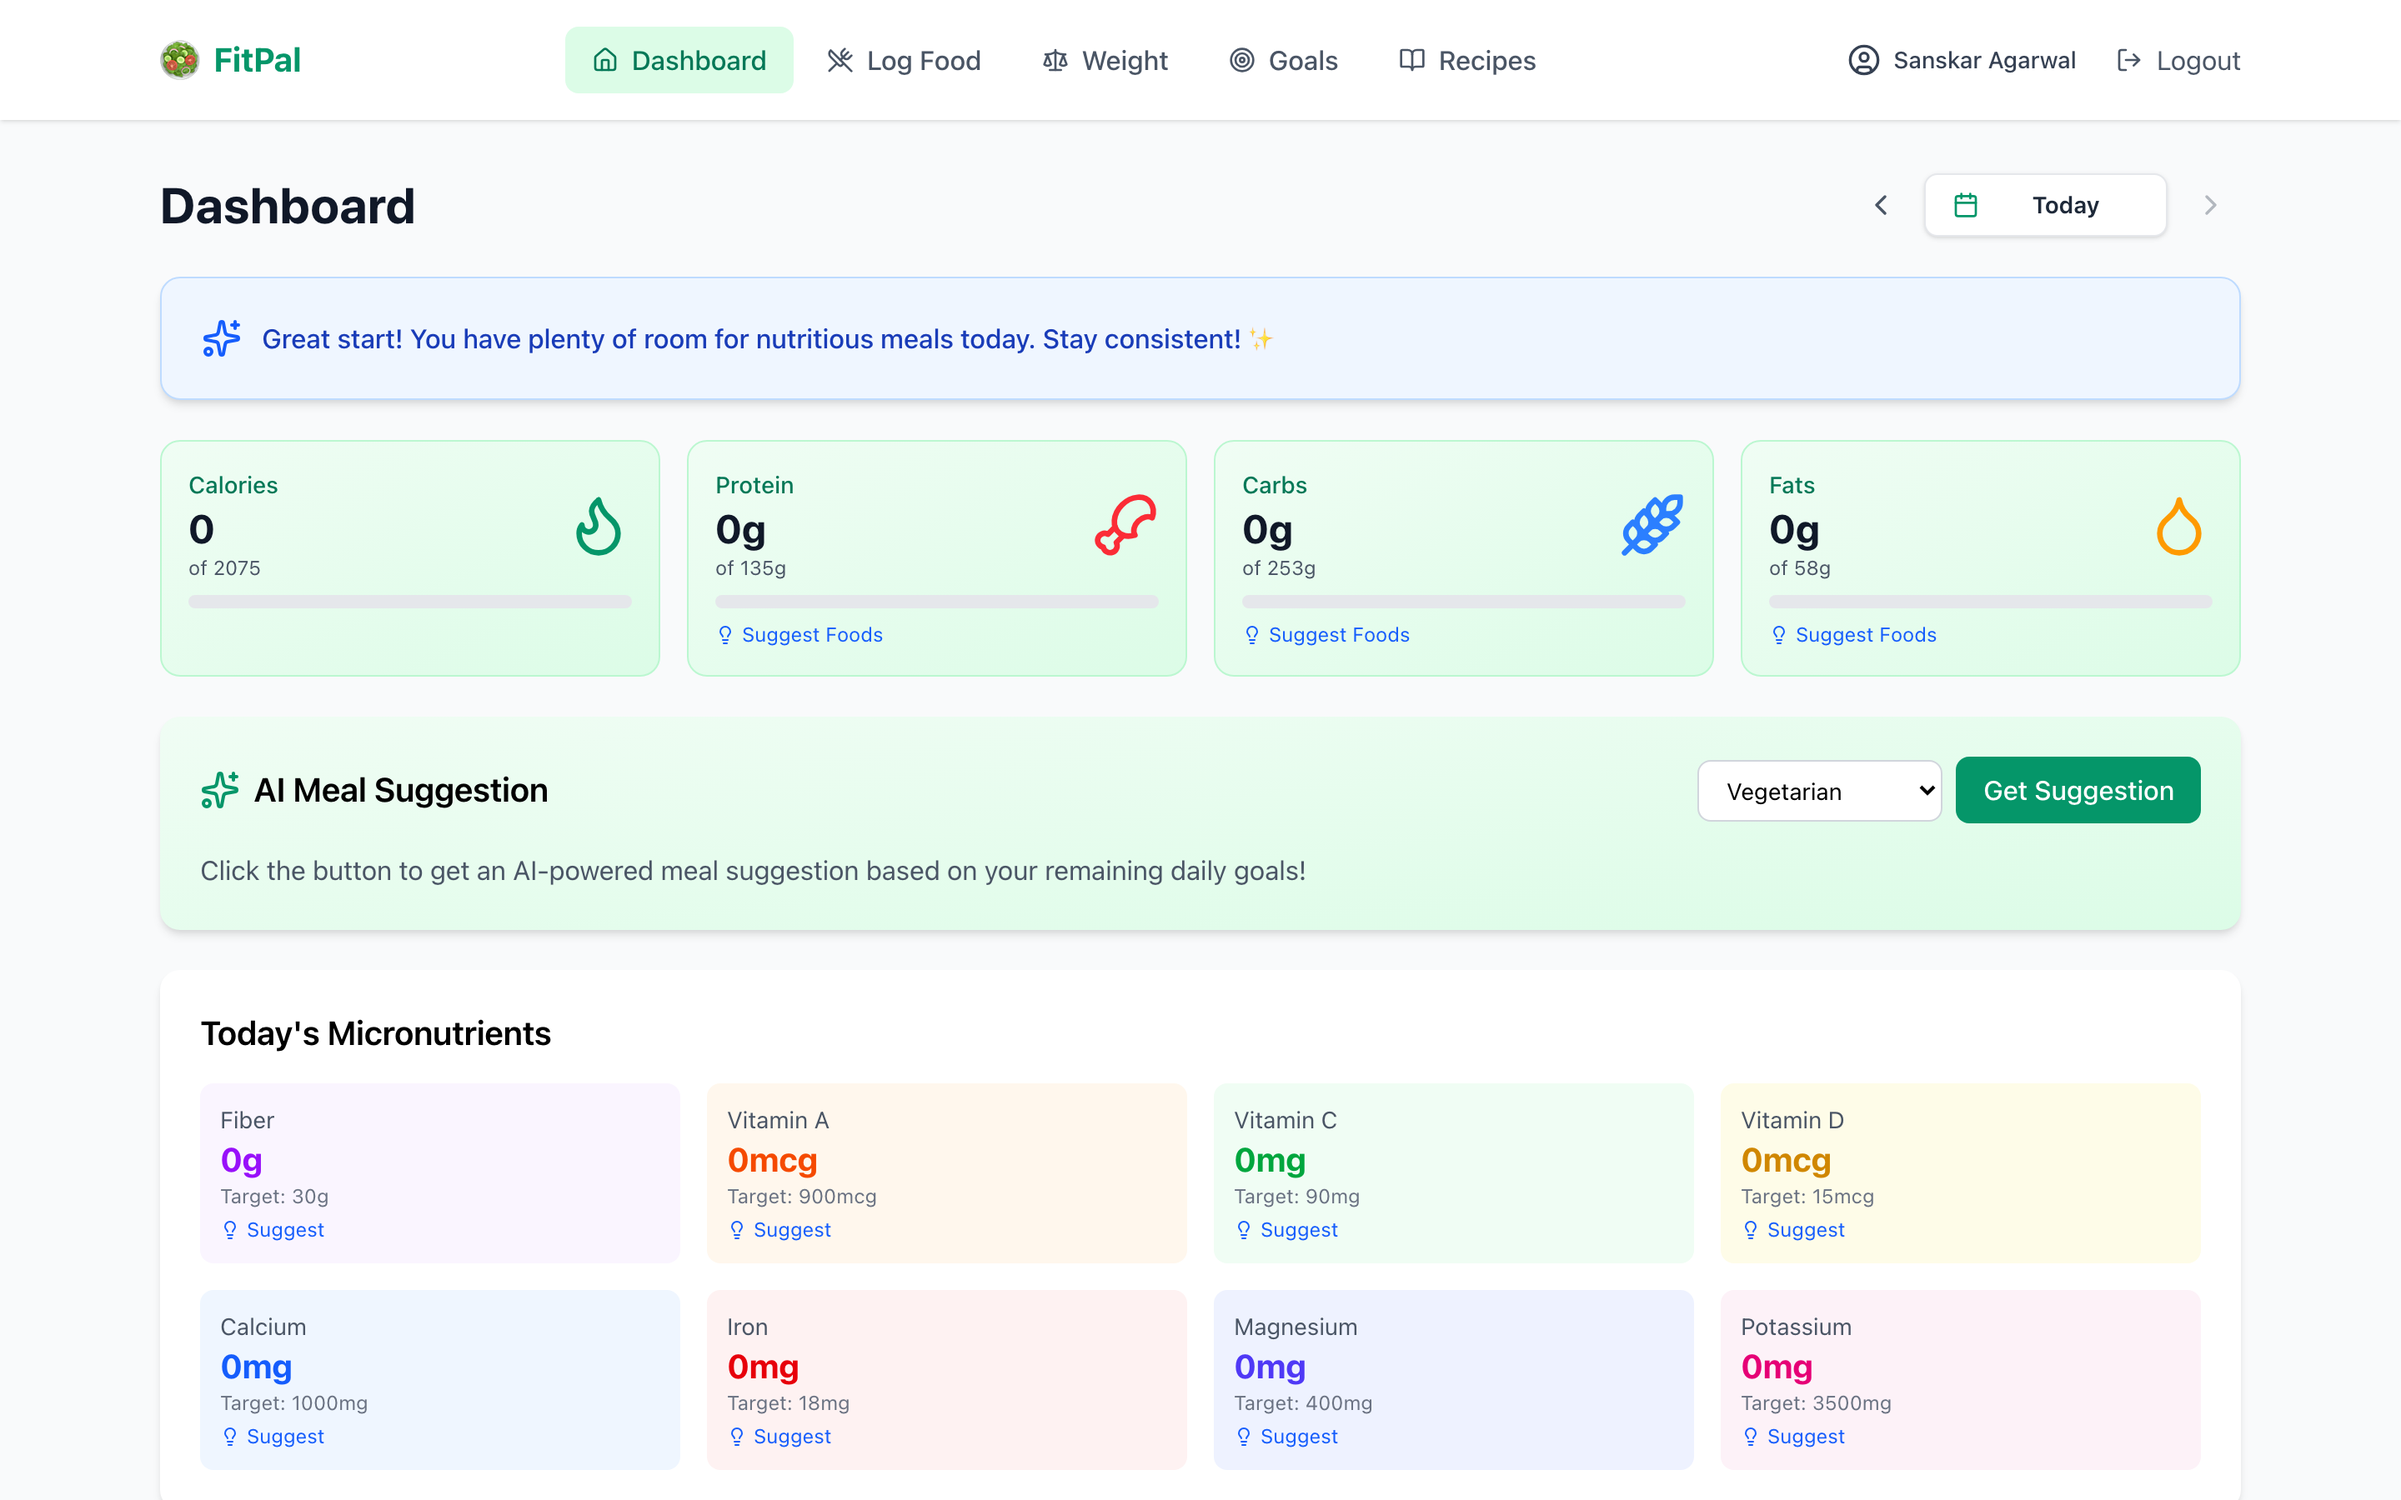
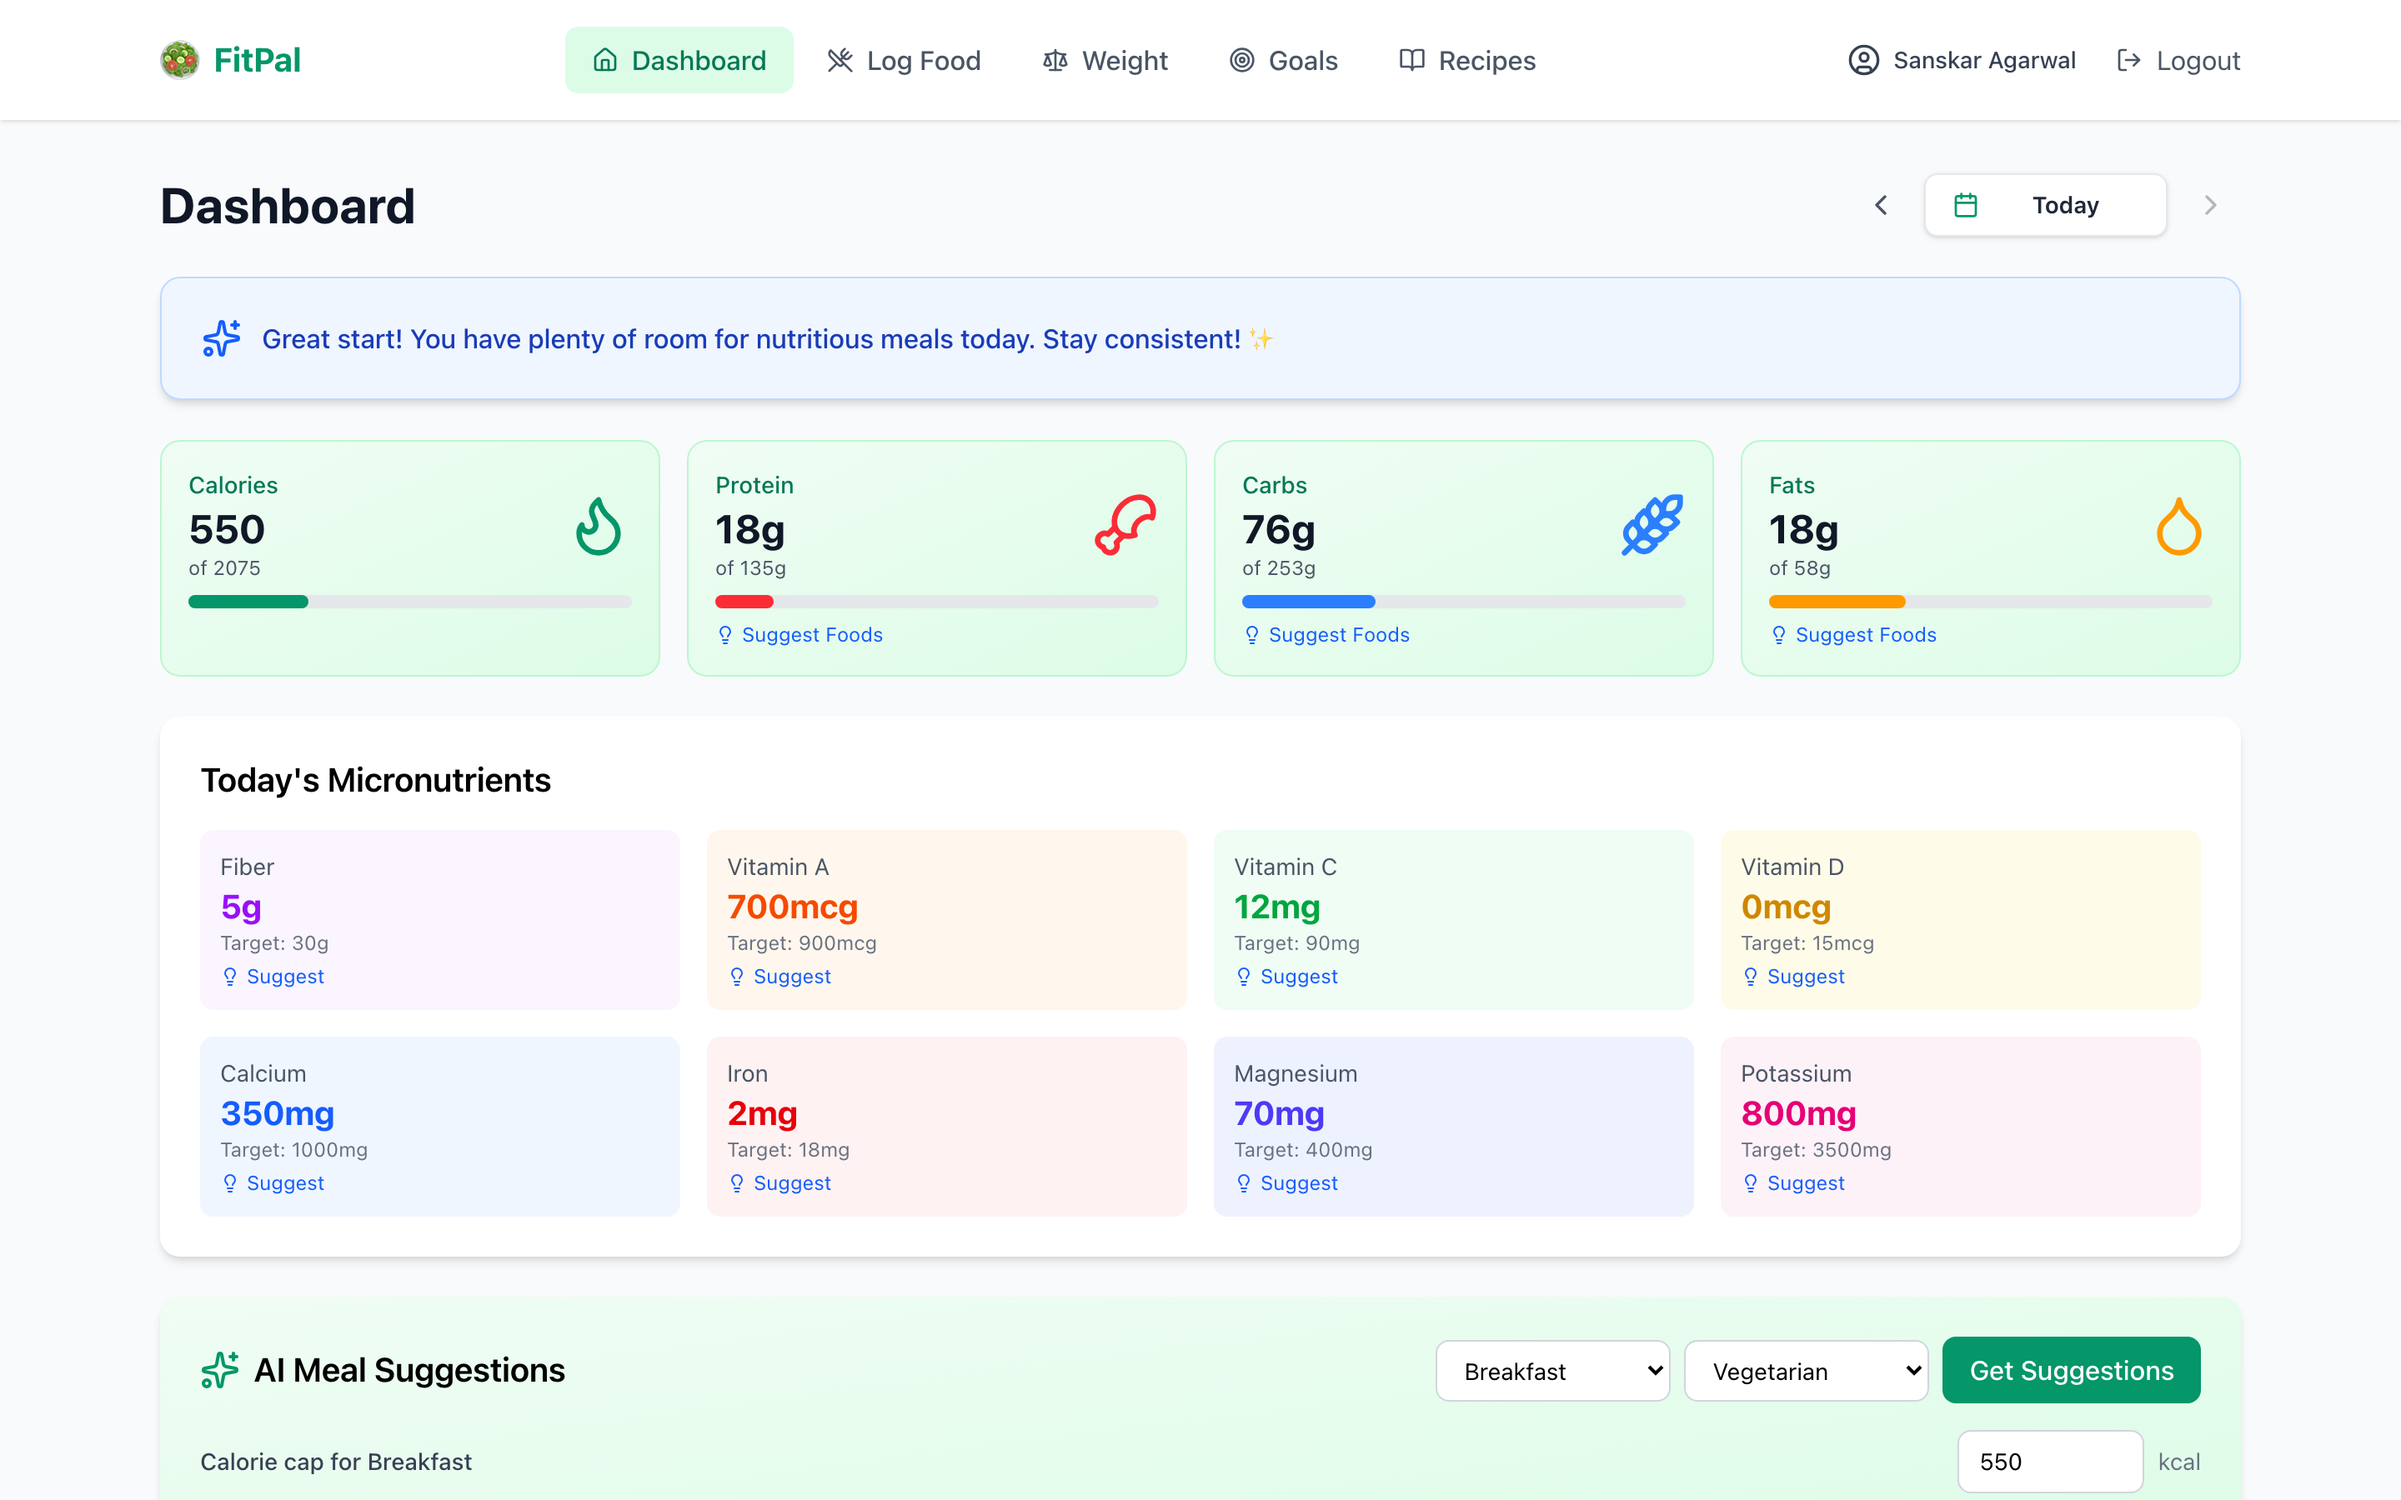
add changelog and create version 0.1.0

diff --git a/src/components/foodLogger/useMealChat.ts b/src/components/foodLogger/useMealChat.ts
@@ -32,6 +32,7 @@ export const useMealChat = ({ user, selectedDate, todayMeals, loadTodayMeals, se
   const [chatMessages, setChatMessages] = useState<ChatMessage[]>([]);
   const [chatInput, setChatInput] = useState('');
   const [chatLoading, setChatLoading] = useState(false);
+  const [chatPreparing, setChatPreparing] = useState(false);
   const [proposedMeal, setProposedMeal] = useState<MealChatResult | null>(null);
 
   const buildMealFromParsed = (result: MealChatResult, existing?: MealEntry): MealEntry | null => {
@@ -84,6 +85,7 @@ export const useMealChat = ({ user, selectedDate, todayMeals, loadTodayMeals, se
     setChatMessages(newHistory);
     setChatInput('');
     setChatLoading(true);
+    setChatPreparing(false);
     setProposedMeal(null);
 
     try {
@@ -106,7 +108,9 @@ export const useMealChat = ({ user, selectedDate, todayMeals, loadTodayMeals, se
       const updateAssistant = (text: string) =>
         setChatMessages([...newHistory, { role: 'assistant', content: text }]);
 
-      const result = await chatLogMealStream(newHistory, loggedMeals, updateAssistant);
+      const result = await chatLogMealStream(newHistory, loggedMeals, updateAssistant, () =>
+        setChatPreparing(true)
+      );
       // Ensure the final message is shown even if no stream chunks arrived.
       setChatMessages([...newHistory, { role: 'assistant', content: result.message }]);
       const isActionable =
@@ -123,6 +127,7 @@ export const useMealChat = ({ user, selectedDate, todayMeals, loadTodayMeals, se
       ]);
     } finally {
       setChatLoading(false);
+      setChatPreparing(false);
     }
   };
 
@@ -160,6 +165,7 @@ export const useMealChat = ({ user, selectedDate, todayMeals, loadTodayMeals, se
   const resetChat = () => {
     setChatMessages([]);
     setChatInput('');
+    setChatPreparing(false);
     setProposedMeal(null);
   };
 
@@ -182,6 +188,7 @@ export const useMealChat = ({ user, selectedDate, todayMeals, loadTodayMeals, se
     chatInput,
     setChatInput,
     chatLoading,
+    chatPreparing,
     proposedMeal,
     sendChat,
     confirmChatMeal,

diff --git a/src/components/foodLogger/MealChat.tsx b/src/components/foodLogger/MealChat.tsx
@@ -11,6 +11,7 @@ interface MealChatProps {
   chatInput: string;
   setChatInput: (value: string) => void;
   chatLoading: boolean;
+  chatPreparing: boolean;
   proposedMeal: MealChatResult | null;
   todayMeals: MealEntry[];
   onSend: () => void;
@@ -25,6 +26,7 @@ export const MealChat = ({
   chatInput,
   setChatInput,
   chatLoading,
+  chatPreparing,
   proposedMeal,
   todayMeals,
   onSend,
@@ -39,7 +41,7 @@ export const MealChat = ({
   useEffect(() => {
     const el = chatScrollRef.current;
     if (el) el.scrollTop = el.scrollHeight;
-  }, [chatMessages, chatLoading]);
+  }, [chatMessages, chatLoading, chatPreparing]);
 
   return (
     <div className="card">
@@ -85,6 +87,14 @@ export const MealChat = ({
               <div className="bg-gray-100 text-gray-500 px-3 py-2 rounded-2xl rounded-bl-sm text-sm flex items-center gap-2">
                 <Spinner className="w-4 h-4" />
                 Thinking…
+              </div>
+            </div>
+          )}
+          {chatPreparing && !proposedMeal && (
+            <div className="flex justify-start">
+              <div className="bg-gray-100 text-gray-500 px-3 py-2 rounded-2xl rounded-bl-sm text-sm flex items-center gap-2">
+                <Spinner className="w-4 h-4" />
+                Preparing your meal…
               </div>
             </div>
           )}

diff --git a/src/services/openai.ts b/src/services/openai.ts
@@ -171,11 +171,14 @@ export async function chatLogMeal(
 
 // Streaming variant. Calls `onMessage` with the assistant's reply text as it is
 // generated, then resolves with the final, nutrition-grounded result. Falls
-// back to the non-streaming endpoint if streaming is unavailable.
+// back to the non-streaming endpoint if streaming is unavailable. `onMessageDone`
+// fires once the reply has fully streamed but the server is still grounding the
+// meal's nutrition, so the UI can show a "preparing" indicator for that gap.
 export async function chatLogMealStream(
   history: MealChatMessage[],
   loggedMeals: LoggedMealSummary[],
-  onMessage: (text: string) => void
+  onMessage: (text: string) => void,
+  onMessageDone?: () => void
 ): Promise<MealChatResult> {
   const response = await fetch(`${API_BASE_URL}/ai/chat-meal-stream`, {
     method: 'POST',
@@ -208,6 +211,8 @@ export async function chatLogMealStream(
   await readNdjsonStream(response.body, (event) => {
     if (event.t === 'msg' && typeof event.v === 'string') {
       onMessage(event.v);
+    } else if (event.t === 'msg_done') {
+      onMessageDone?.();
     } else if (event.t === 'done') {
       final = event.v as MealChatResult;
     } else if (event.t === 'error') {

diff --git a/server/controllers/aiController.ts b/server/controllers/aiController.ts
@@ -87,6 +87,7 @@ export const aiController = {
 
   // Streaming chat endpoint. Responds with newline-delimited JSON (NDJSON):
   //   {"t":"msg","v":"<assistant message so far>"}  — emitted as the reply streams
+  //   {"t":"msg_done"}                              — reply finished; grounding nutrition next
   //   {"t":"done","v":<MealChatResult>}             — final, nutrition-grounded result
   //   {"t":"error","v":"<reason>"}                  — only if both streaming and fallback fail
   // If streaming fails mid-flight, fall back to the non-streaming path (which
@@ -101,8 +102,11 @@ export const aiController = {
     const write = (obj: unknown) => res.write(`${JSON.stringify(obj)}\n`);
 
     try {
-      const final = await chatLogMealStream(history, loggedMeals, (text) =>
-        write({ t: 'msg', v: text })
+      const final = await chatLogMealStream(
+        history,
+        loggedMeals,
+        (text) => write({ t: 'msg', v: text }),
+        () => write({ t: 'msg_done' })
       );
       write({ t: 'done', v: final });
     } catch (error: unknown) {

diff --git a/server/services/aiService.ts b/server/services/aiService.ts
@@ -913,7 +913,8 @@ export async function chatLogMeal(
 export async function chatLogMealStream(
   history: { role: 'user' | 'assistant'; content: string }[],
   loggedMeals: LoggedMealSummary[],
-  onMessage: (text: string) => void
+  onMessage: (text: string) => void,
+  onMessageDone?: () => void
 ) {
   const system = mealChatSystemPrompt(loggedMeals);
   const result = streamText({
@@ -933,5 +934,6 @@ export async function chatLogMealStream(
   }
 
   const extracted = await result.output;
+  if (extracted.status === 'ready' && extracted.foods.length > 0) onMessageDone?.();
   return assembleChatResult(extracted);
 }

diff --git a/src/components/FoodLogger.tsx b/src/components/FoodLogger.tsx
@@ -60,6 +60,7 @@ export const FoodLogger = () => {
         chatInput={chat.chatInput}
         setChatInput={chat.setChatInput}
         chatLoading={chat.chatLoading}
+        chatPreparing={chat.chatPreparing}
         proposedMeal={chat.proposedMeal}
         todayMeals={todayMeals}
         onSend={chat.sendChat}

diff --git a/CHANGELOG.md b/CHANGELOG.md
@@ -1,0 +1,24 @@
+# Changelog
+
+All notable changes to this project are documented in this file.
+
+The format is based on [Keep a Changelog](https://keepachangelog.com/en/1.1.0/),
+and this project adheres to [Semantic Versioning](https://semver.org/spec/v2.0.0.html).
+
+While the version is in the `0.x` range, the public API and data formats may
+change between minor releases.
+
+## [Unreleased]
+
+## [0.1.0] - 2026-06-06
+
+### Added
+
+- Initial release of FitPal: a privacy-first fitness tracker for Indian meals,
+  food intake, and weight.
+- React 19 + TypeScript + Vite frontend with state-based navigation.
+- Express 5 + better-sqlite3 storage server with JWT cookie authentication.
+- Server-side AI service (Vercel AI SDK) for meal and nutrition assistance.
+
+[Unreleased]: https://github.com/sanskagarwal/FitPal/compare/v0.1.0...HEAD
+[0.1.0]: https://github.com/sanskagarwal/FitPal/releases/tag/v0.1.0
